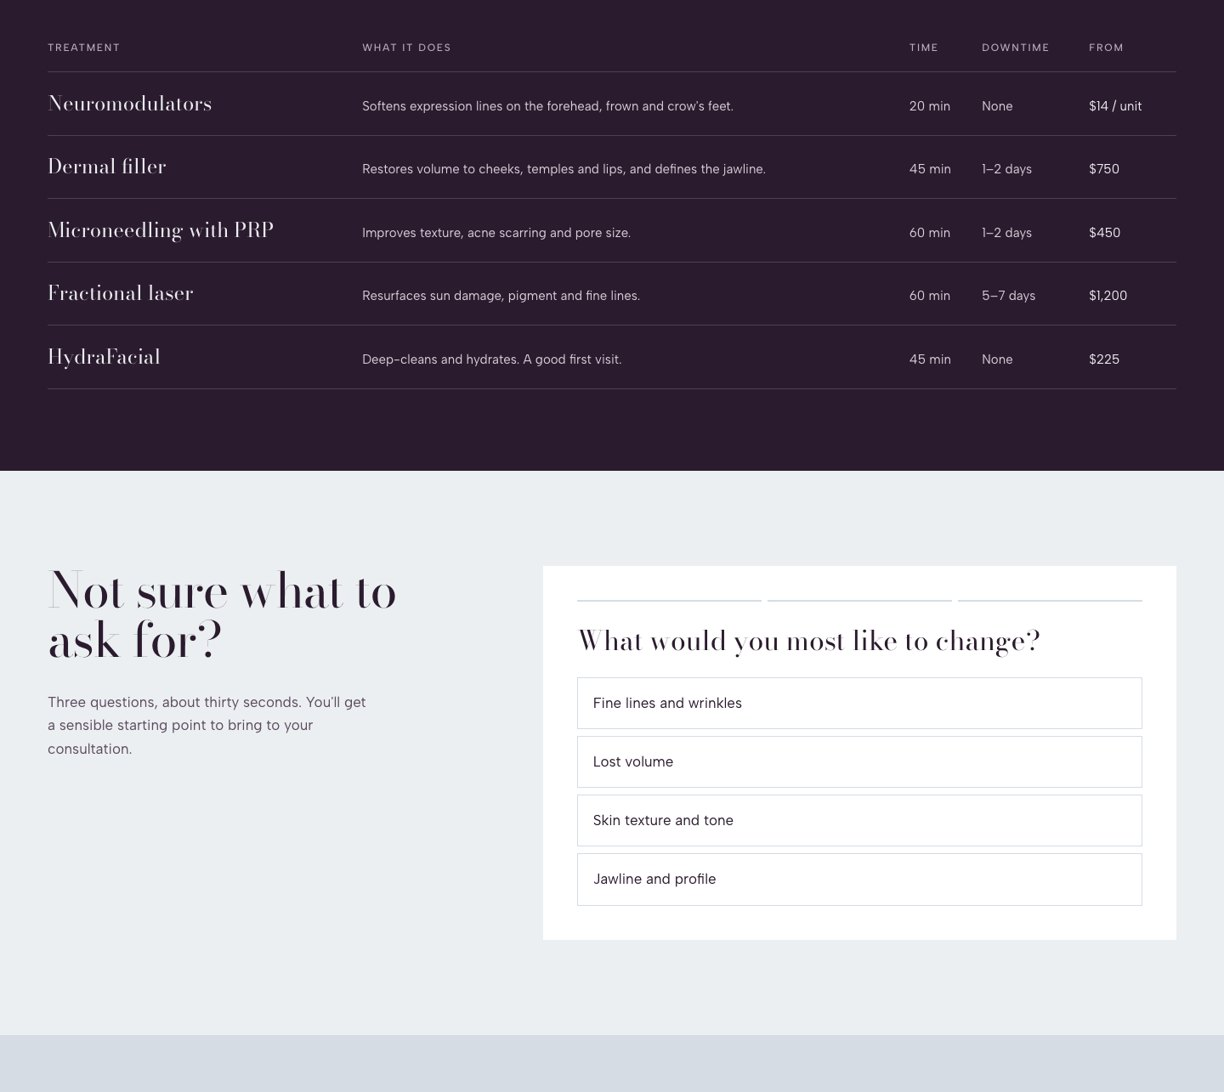
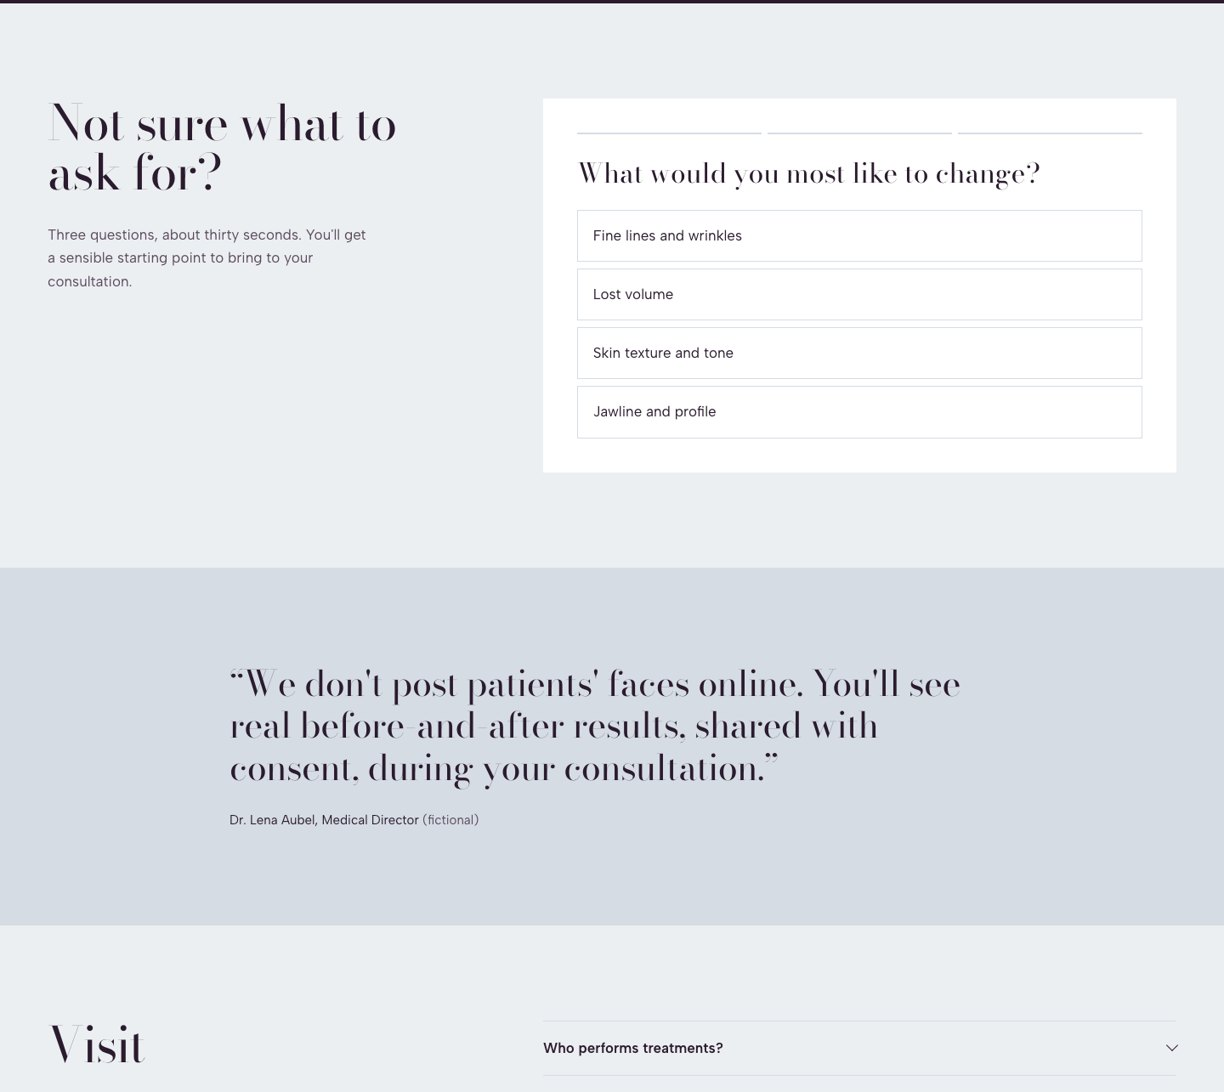
copy: prices out of the page, richer approach copy, new How I build section

diff --git a/index.html b/index.html
@@ -3,11 +3,11 @@
 <head>
 <meta charset="utf-8">
 <meta name="viewport" content="width=device-width, initial-scale=1, viewport-fit=cover">
-<title>Ibukun Aluko: fixed-price websites for small businesses, from $180</title>
-<meta name="description" content="Landing pages and business sites in three fixed-scope packages from $180, delivered on the date I quote, by a developer in Abuja.">
+<title>Ibukun Aluko: websites for small businesses, built by a senior developer</title>
+<meta name="description" content="Landing pages and business sites designed and built by a senior full-stack developer in Abuja, quoted at a fixed price before work starts.">
 <meta property="og:type" content="website">
-<meta property="og:title" content="Ibukun Aluko: fixed-price websites for small businesses">
-<meta property="og:description" content="Three fixed-scope website packages, from $180.">
+<meta property="og:title" content="Ibukun Aluko: websites for small businesses">
+<meta property="og:description" content="Fast, carefully made websites from a senior full-stack developer.">
 <meta property="og:image" content="share.jpg">
 <meta name="twitter:card" content="summary_large_image">
 <link rel="icon" href="favicon.svg" type="image/svg+xml">
@@ -51,6 +51,8 @@
   #work .panel .frame__img { object-fit: cover; object-position: top; }
   @media (max-width: 1023px) { #work .panel { --p-h: auto; aspect-ratio: 4 / 3; } }
   /* packages: the section's one photograph (picture-develops), as tall as the text beside it */
+  .rows > li.principle { display: grid; grid-template-columns: auto minmax(0, 1fr); gap: var(--s-5); align-items: start; }
+  .principle .ic-tile { margin-top: 2px; }
   .develop { margin: 0; border-radius: var(--r-lg); overflow: hidden; height: min(560px, var(--ly-fit)); }
   .develop > img[hidden] { display: none; }
   .develop > img { display: block; width: 100%; height: 100%; object-fit: cover; object-position: top; }
@@ -58,10 +60,10 @@
   .form { position: relative; }
   .hp { position: absolute; width: 1px; height: 1px; margin: 0; padding: 0; border: 0; opacity: 0; overflow: hidden; clip-path: inset(50%); pointer-events: none; }
   #work .card p { color: var(--ink); }
-  @media (min-width: 640px) and (max-width: 1023px) { #work { --h: 2; } #work .panel { aspect-ratio: 16 / 10; } #brief textarea { min-height: 56px; } #brief .form { gap: var(--s-3); } #brief .rows > li { padding-block: var(--s-3); } #brief .tools { margin-top: var(--s-4); } }
-  @media (min-width: 800px) and (max-width: 1023px) { #work .panel { aspect-ratio: 1.42 / 1; } }
+  @media (min-width: 640px) and (max-width: 1023px) { #work { --h: 2; } #work .panel { aspect-ratio: 1.75 / 1; } #brief textarea { min-height: 56px; } #brief .form { gap: var(--s-3); } #brief .rows > li { padding-block: var(--s-3); } #brief .tools { margin-top: var(--s-4); } }
+  @media (min-width: 800px) and (max-width: 1023px) { #work .panel { aspect-ratio: 1.5 / 1; } }
   @media (min-width: 1024px) and (max-width: 1279px) { #work .grid > .card.span-4 { grid-column: span 4; } #work .panel { --p-h: 217px; } .faq > .faq__item { padding-block: var(--s-3); } #packages .rows > li { padding-block: var(--s-3); } #packages h2 .muted { display: none; } #brief .section-head { gap: var(--s-2); margin-bottom: var(--s-5); } #brief textarea { min-height: 56px; } #brief .rows > li { padding-block: var(--s-3); } #brief .form { gap: var(--s-3); } #brief .tools { margin-top: var(--s-4); } }
-  @media (max-width: 639px) { #work, #packages, #brief { --hm: 2; } .faq > .faq__item { padding-block: var(--s-2); gap: var(--s-1); } #faq .tools { margin-top: var(--s-3); } #faq h2 .muted { display: none; } .develop { margin-top: var(--s-7); aspect-ratio: 4 / 5; } }
+  @media (max-width: 639px) { #work, #approach, #packages, #brief { --hm: 2; } .faq > .faq__item { padding-block: var(--s-2); gap: var(--s-1); } #faq .tools { margin-top: var(--s-3); } #faq h2 .muted { display: none; } .develop { margin-top: var(--s-7); aspect-ratio: 4 / 5; } }
   .tools { display: flex; flex-wrap: wrap; gap: var(--s-3); margin-top: var(--s-6); }
 </style>
 </head>
@@ -76,6 +78,7 @@
     <a class="nav__logo" href="#top"><span class="mark" data-mark="arc" aria-hidden="true"></span>Ibukun Aluko</a>
     <nav class="nav__links" aria-label="Main">
       <div class="nav__item"><a class="nav__link" href="#work">Work</a></div>
+      <div class="nav__item"><a class="nav__link" href="#approach">Approach</a></div>
       <div class="nav__item"><a class="nav__link" href="#faq">Questions</a></div>
       <div class="nav__item"><a class="nav__link" href="#packages">Packages</a></div>
     </nav>
@@ -91,17 +94,17 @@
 <main id="top">
   <section class="hero hero--word" data-enter aria-labelledby="hero-h">
     <div class="wrap"><div class="hero-text hero__in">
-      <h1 id="hero-h">Websites at fixed prices for <span class="ly-word" data-ly-word='["clinics.","startups."]'>shops.</span></h1>
+      <h1 id="hero-h">Websites for <span class="ly-word" data-ly-word='["clinics.","studios.","founders."]'>shops.</span></h1>
       <div class="grid hero__foot">
         <div class="span-6">
-          <p class="hero__lead">I build landing pages and business sites for small businesses. Every package has a fixed price, a delivery date and two rounds of changes.</p>
-          <div class="btn-row"><a class="btn btn--primary" href="#brief">Send a brief</a><a class="btn btn--secondary" href="#packages">See the packages</a></div>
+          <p class="hero__lead">I design and build fast, carefully made websites that win trust and bring in enquiries: a single landing page or a full business site, from a senior full-stack developer.</p>
+          <div class="btn-row"><a class="btn btn--primary" href="#brief">Send a brief</a><a class="btn btn--secondary" href="#approach">See how I work</a></div>
         </div>
         <dl class="hero__facts hero__facts--col span-6 start-7">
-          <div><dt>Landing page</dt><dd data-assumed>From $180</dd></div>
-          <div><dt>Business site</dt><dd data-assumed>From $450</dd></div>
-          <div><dt>Pro</dt><dd data-assumed>From $950</dd></div>
-          <div><dt>Delivery</dt><dd data-assumed>3 to 14 days</dd></div>
+          <div><dt>Experience</dt><dd>Five years, full stack</dd></div>
+          <div><dt>Worked with</dt><dd>Fintech, software, agencies</dd></div>
+          <div><dt>Scope</dt><dd>Fixed before work starts</dd></div>
+          <div><dt>Reply</dt><dd>Within a day</dd></div>
         </dl>
       </div>
     </div></div>
@@ -110,28 +113,46 @@
   <section class="section" id="work" aria-labelledby="work-h">
     <div class="wrap">
       <div class="section-head">
-        <h2 id="work-h">Websites I have built. <span class="muted">Each one has a part you can use.</span></h2>
+        <h2 id="work-h">Websites I have built. <span class="muted">Each one does a job for its visitors.</span></h2>
       </div>
       <div class="grid">
         <a class="card card--row card--open span-4" href="https://vantage-works-concepts.vercel.app/work/calder-row" target="_blank" rel="noopener">
           <h3>Calder Row website</h3>
-          <p>A condominium site in Brooklyn. Choose a floor, then work out the monthly cost.</p>
+          <p>A residential development in Brooklyn. Visitors pick a floor, see what is available and work out the monthly cost before they ever call.</p>
           <div class="panel"><img class="frame__img" src="img/calder-row.jpg" srcset="img/calder-row-600.jpg 600w, img/calder-row.jpg 1200w" sizes="(max-width: 1023px) 100vw, 410px" width="1200" height="900" alt="The Calder Row home page: a headline over a building diagram with a list of units for the chosen floor" loading="lazy" data-source="shoot" data-subject="Calder Row"></div>
           <span class="link">View the live site<svg class="m-arrow" viewBox="0 0 12 12" aria-hidden="true"><path class="m-arrow__stem" d="M1 6h8"/><path class="m-arrow__head" d="M4.5 2.5 8 6l-3.5 3.5"/></svg></span>
         </a>
         <a class="card card--row card--open span-4" href="https://vantage-works-concepts.vercel.app/work/aubel" target="_blank" rel="noopener">
           <h3>Aubel Clinic website</h3>
-          <p>A skin clinic site in West Hollywood, with a treatment finder and a consultation calendar.</p>
+          <p>A skin clinic in West Hollywood. Visitors find the right treatment and book a consultation slot without a phone call.</p>
           <div class="panel"><img class="frame__img" src="img/aubel.jpg" srcset="img/aubel-600.jpg 600w, img/aubel.jpg 1200w" sizes="(max-width: 1023px) 100vw, 410px" width="1200" height="900" alt="The Aubel Clinic home page: a serif headline beside a consultation booking calendar" loading="lazy" data-source="shoot" data-subject="Aubel Clinic"></div>
           <span class="link">View the live site<svg class="m-arrow" viewBox="0 0 12 12" aria-hidden="true"><path class="m-arrow__stem" d="M1 6h8"/><path class="m-arrow__head" d="M4.5 2.5 8 6l-3.5 3.5"/></svg></span>
         </a>
         <a class="card card--row card--open span-4" href="https://vantage-works-concepts.vercel.app/work/halden" target="_blank" rel="noopener">
           <h3>Halden website</h3>
-          <p>A site for a forecasting tool. Three sliders change a revenue chart as you drag them.</p>
+          <p>A forecasting tool for finance teams. Three sliders redraw a revenue chart live, so the product explains itself.</p>
           <div class="panel"><img class="frame__img" src="img/halden.jpg" srcset="img/halden-600.jpg 600w, img/halden.jpg 1200w" sizes="(max-width: 1023px) 100vw, 410px" width="1200" height="900" alt="The Halden home page: a headline over a revenue forecast chart with sliders" loading="lazy" data-source="shoot" data-subject="Halden"></div>
           <span class="link">View the live site<svg class="m-arrow" viewBox="0 0 12 12" aria-hidden="true"><path class="m-arrow__stem" d="M1 6h8"/><path class="m-arrow__head" d="M4.5 2.5 8 6l-3.5 3.5"/></svg></span>
         </a>
       </div>
+    </div>
+  </section>
+
+  <section class="section" id="approach" aria-labelledby="approach-h">
+    <div class="wrap grid grid--top">
+      <div class="span-5">
+        <div class="section-head">
+          <h2 id="approach-h">How I build a website. <span class="muted">Each choice is made for your customers.</span></h2>
+          <p class="t-lead">I am a senior full-stack developer in Abuja, with five years across fintech, software and agencies and teams in Nigeria, the UK and the US. I take every brief myself, from first call to launch.</p>
+        </div>
+      </div>
+      <ul class="rows span-6 start-7">
+          <li class="principle"><span class="ic-tile"><svg class="ic ic-svg ic-32" role="img" aria-label="Target" viewBox="0 0 24 24" fill="none" stroke="currentColor" stroke-width="2" stroke-linecap="round" stroke-linejoin="round"><g fill="none" stroke="currentColor" stroke-linecap="round" stroke-linejoin="round" stroke-width="2"><circle cx="12" cy="12" r="10"/><circle cx="12" cy="12" r="6"/><circle cx="12" cy="12" r="2"/></g></svg></span><div><span class="rows__name">Built around one next step</span><p>Every page has one job and one clear action: a call, a booking or a brief. I settle that before I draw a layout.</p></div></li>
+          <li class="principle"><span class="ic-tile"><svg class="ic ic-svg ic-32" role="img" aria-label="Smartphone" viewBox="0 0 24 24" fill="none" stroke="currentColor" stroke-width="2" stroke-linecap="round" stroke-linejoin="round"><g fill="none" stroke="currentColor" stroke-linecap="round" stroke-linejoin="round" stroke-width="2"><rect width="14" height="20" x="5" y="2" rx="2" ry="2"/><path d="M12 18h.01"/></g></svg></span><div><span class="rows__name">Fast on a phone</span><p>Most visitors arrive on a phone. I build for small screens and slow connections first, and check every site on a phone before you see it.</p></div></li>
+          <li class="principle"><span class="ic-tile"><svg class="ic ic-svg ic-32" role="img" aria-label="Search" viewBox="0 0 24 24" fill="none" stroke="currentColor" stroke-width="2" stroke-linecap="round" stroke-linejoin="round"><g fill="none" stroke="currentColor" stroke-linecap="round" stroke-linejoin="round" stroke-width="2"><path d="m21 21l-4.34-4.34"/><circle cx="11" cy="11" r="8"/></g></svg></span><div><span class="rows__name">Easy for search to read</span><p>Clean structure, proper titles and quick pages, so search engines can read the site and customers can find it.</p></div></li>
+          <li class="principle"><span class="ic-tile"><svg class="ic ic-svg ic-32" role="img" aria-label="Key Round" viewBox="0 0 24 24" fill="none" stroke="currentColor" stroke-width="2" stroke-linecap="round" stroke-linejoin="round"><g fill="none" stroke="currentColor" stroke-linecap="round" stroke-linejoin="round" stroke-width="2"><path d="M2.586 17.414A2 2 0 0 0 2 18.828V21a1 1 0 0 0 1 1h3a1 1 0 0 0 1-1v-1a1 1 0 0 1 1-1h1a1 1 0 0 0 1-1v-1a1 1 0 0 1 1-1h.172a2 2 0 0 0 1.414-.586l.814-.814a6.5 6.5 0 1 0-4-4z"/><circle cx="16.5" cy="7.5" r=".5" fill="currentColor"/></g></svg></span><div><span class="rows__name">Yours to keep</span><p>You own the site, the code and the accounts. I hand everything over and set it up so nobody depends on me to keep it running.</p></div></li>
+          <li class="principle"><span class="ic-tile"><svg class="ic ic-svg ic-32" role="img" aria-label="Pen Tool" viewBox="0 0 24 24" fill="none" stroke="currentColor" stroke-width="2" stroke-linecap="round" stroke-linejoin="round"><g fill="none" stroke="currentColor" stroke-linecap="round" stroke-linejoin="round" stroke-width="2"><path d="M15.707 21.293a1 1 0 0 1-1.414 0l-1.586-1.586a1 1 0 0 1 0-1.414l5.586-5.586a1 1 0 0 1 1.414 0l1.586 1.586a1 1 0 0 1 0 1.414z"/><path d="m18 13l-1.375-6.874a1 1 0 0 0-.746-.776L3.235 2.028a1 1 0 0 0-1.207 1.207L5.35 15.879a1 1 0 0 0 .776.746L13 18M2.3 2.3l7.286 7.286"/><circle cx="11" cy="11" r="2"/></g></svg></span><div><span class="rows__name">Drawn for your business</span><p>Layouts are designed around your customers and what you sell, not picked from a template library and filled in.</p></div></li>
+      </ul>
     </div>
   </section>
 
@@ -144,11 +165,12 @@
         <div class="tools"><span class="ic-tile"><svg class="ic ic-svg ic-32" role="img" aria-label="Fixed price" xmlns="http://www.w3.org/2000/svg" viewBox="0 0 24 24" fill="none" stroke="currentColor" stroke-width="2" stroke-linecap="round" stroke-linejoin="round" width="32" height="32"><circle cx="12" cy="12" r="10"/><path d="M16 8h-6a2 2 0 1 0 0 4h4a2 2 0 1 1 0 4H8m4 2V6"/></svg></span><span class="ic-tile"><svg class="ic ic-svg ic-32" role="img" aria-label="Two rounds of changes" xmlns="http://www.w3.org/2000/svg" viewBox="0 0 24 24" fill="none" stroke="currentColor" stroke-width="2" stroke-linecap="round" stroke-linejoin="round" width="32" height="32"><path d="M3 12a9 9 0 0 1 9-9a9.75 9.75 0 0 1 6.74 2.74L21 8"/><path d="M21 3v5h-5m5 4a9 9 0 0 1-9 9a9.75 9.75 0 0 1-6.74-2.74L3 16"/><path d="M8 16H3v5"/></svg></span><span class="ic-tile"><svg class="ic ic-svg ic-32" role="img" aria-label="Delivery date" xmlns="http://www.w3.org/2000/svg" viewBox="0 0 24 24" fill="none" stroke="currentColor" stroke-width="2" stroke-linecap="round" stroke-linejoin="round" width="32" height="32"><circle cx="12" cy="12" r="10"/><path d="M12 6v6l4 2"/></svg></span><span class="ic-tile"><svg class="ic ic-svg ic-32" role="img" aria-label="You own it" xmlns="http://www.w3.org/2000/svg" viewBox="0 0 24 24" fill="none" stroke="currentColor" stroke-width="2" stroke-linecap="round" stroke-linejoin="round" width="32" height="32"><path d="M6 22a2 2 0 0 1-2-2V4a2 2 0 0 1 2-2h8a2.4 2.4 0 0 1 1.704.706l3.588 3.588A2.4 2.4 0 0 1 20 8v12a2 2 0 0 1-2 2z"/><path d="M14 2v5a1 1 0 0 0 1 1h5M9 15l2 2l4-4"/></svg></span></div>
       </div>
       <div class="faq span-6 start-7">
-        <div class="faq__item"><h3>What the fixed price covers</h3><p>The pages and features in the package. Anything extra is quoted before I start it.</p></div>
+        <div class="faq__item"><h3>How the price works</h3><p>I quote a fixed price once I have read your brief. It covers the pages and features in the package, and anything extra is quoted before I start it.</p></div>
         <div class="faq__item"><h3>Who owns the website</h3><p>You do. I hand over everything and set it up on your own accounts.</p></div>
+        <div class="faq__item"><h3>How long a website takes</h3><p>Three days for a landing page, a week for a business site and two weeks for Pro, counted from when I have your content.</p></div>
+        <div class="faq__item"><h3>What I need for your website</h3><p>Your text, photos and logo, or a short call to talk them through. If something is missing, I tell you before I start.</p></div>
         <div class="faq__item"><h3>How many website changes are included</h3><p>Two rounds in every package, each one list of changes.</p></div>
         <div class="faq__item"><h3>AI features in a website</h3><p>Yes, in the Pro package. My Document Q&amp;A project answers from a PDF and cites the page.</p></div>
-        <div class="faq__item"><h3>Who builds the website</h3><p>Ibukun Aluko, in Abuja, Nigeria. I have five years of full-stack work behind me in fintech, software and agencies, and I take every brief myself.</p></div>
       </div>
     </div>
   </section>
@@ -157,12 +179,12 @@
     <div class="wrap grid grid--top" data-peek>
       <div class="span-5">
         <div class="section-head">
-          <h2 id="packages-h">Three packages at fixed prices. <span class="muted">In US dollars, counted from when I have your content.</span></h2>
+          <h2 id="packages-h">Three ways to work together. <span class="muted">Fixed scope, quoted after your brief.</span></h2>
         </div>
         <ul class="rows">
-          <li data-peek-to="landing" tabindex="0"><span class="rows__name">Landing page</span><p>One page, mobile-ready, with a contact form. Live in <span data-assumed>3 days</span>. <a class="link" href="#brief-form">Order this package</a></p><span class="rows__value" data-assumed>$180</span></li>
-          <li data-peek-to="business" tabindex="0"><span class="rows__name">Business site</span><p>Up to five pages, search basics and analytics. Live in <span data-assumed>7 days</span>. <a class="link" href="#brief-form">Order this package</a></p><span class="rows__value" data-assumed>$450</span></li>
-          <li data-peek-to="pro" tabindex="0"><span class="rows__name">Pro</span><p>Up to ten pages and one custom feature, such as answers from your PDFs. Live in <span data-assumed>14 days</span>. <a class="link" href="#brief-form">Order this package</a></p><span class="rows__value" data-assumed>$950</span></li>
+          <li data-peek-to="landing" tabindex="0"><span class="rows__name">Landing page</span><p>One page, mobile-ready, with a contact form. <a class="link" href="#brief-form">Ask about this package</a></p><span class="rows__value" data-assumed>3 days</span></li>
+          <li data-peek-to="business" tabindex="0"><span class="rows__name">Business site</span><p>Up to five pages, search basics and analytics. <a class="link" href="#brief-form">Ask about this package</a></p><span class="rows__value" data-assumed>7 days</span></li>
+          <li data-peek-to="pro" tabindex="0"><span class="rows__name">Pro</span><p>Up to ten pages and one custom feature, such as answers from your PDFs. <a class="link" href="#brief-form">Ask about this package</a></p><span class="rows__value" data-assumed>14 days</span></li>
         </ul>
       </div>
       <figure class="develop span-6 start-7" data-moment="picture-develops">
@@ -222,7 +244,7 @@
       <div class="grid">
         <div class="span-4 stack-4">
           <a class="nav__logo" href="#top"><span class="mark" data-mark="arc" aria-hidden="true"></span>Ibukun Aluko</a>
-          <p class="footer__lede">Fixed-price websites, delivered on a date.</p>
+          <p class="footer__lede">Websites that earn trust and enquiries.</p>
         </div>
         <div class="span-2 start-9 footer__col"><h3>Pages</h3><ul><li><a href="#work">Work</a></li><li><a href="#faq">Questions</a></li><li><a href="#packages">Packages</a></li></ul></div>
         <div class="span-2 footer__col"><h3>Contact</h3><ul><li><a href="#brief">Send a brief</a></li></ul></div>

diff --git a/README.md b/README.md
@@ -3,7 +3,7 @@
 A one-page site for selling three fixed-scope Next.js website packages on Upwork and Fiverr. Built with the taste-skill kit (`assets/`), static HTML plus one serverless function.
 
 ## What is on the page
-Hero with a short film, the work (three builds), questions, three packages with prices, a brief form, and a footer. The brief form posts to `api/brief.js`, which emails it through Resend.
+Hero, the work (three builds), how I build, questions, three packages (scope and delivery time, no prices), a brief form, and a footer. The brief form posts to `api/brief.js`, which emails it through Resend.
 
 ## Run it
 ```bash
@@ -15,7 +15,7 @@ npm test                      # 5 tests for the brief endpoint
 Set these in the project's environment variables, server side only: `RESEND_API_KEY`, `CONTACT_FROM`, `CONTACT_TO`.
 
 ## Open facts to confirm before launch
-- Prices and delivery days are proposals: `$180 / 3 days`, `$450 / 7 days`, `$950 / 14 days`. Every one carries `data-assumed` in `index.html`.
+- Delivery days (3, 7 and 14) are proposals and carry `data-assumed` in `index.html`. Prices are deliberately not on the page: they are quoted when a brief arrives.
 - Terms stated in the FAQ (two rounds of changes, code handed over on GitHub, deploy to the client's Vercel) are proposals too.
 - The canonical domain is not set (a commented `<link rel="canonical">` is in the head).
 - Add the Upwork and Fiverr profile links when they exist.
